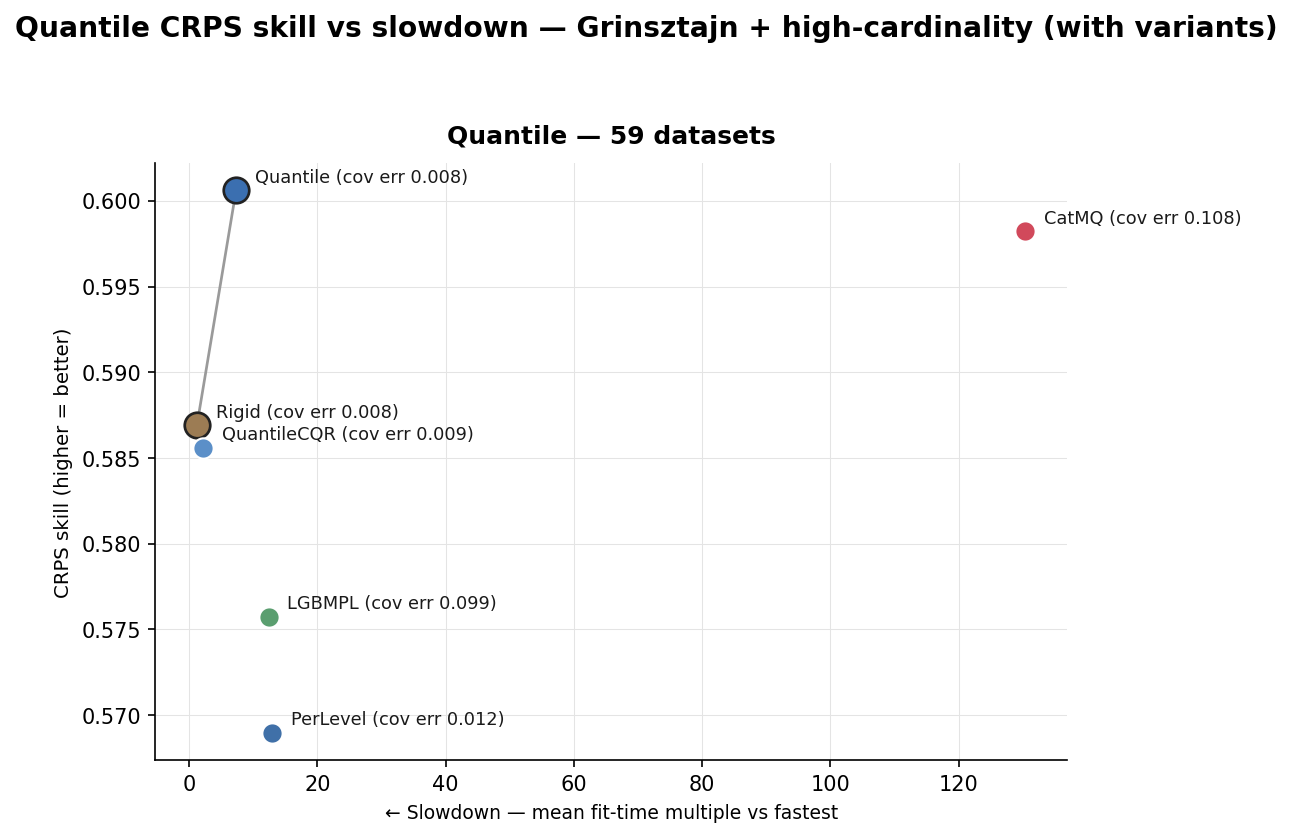
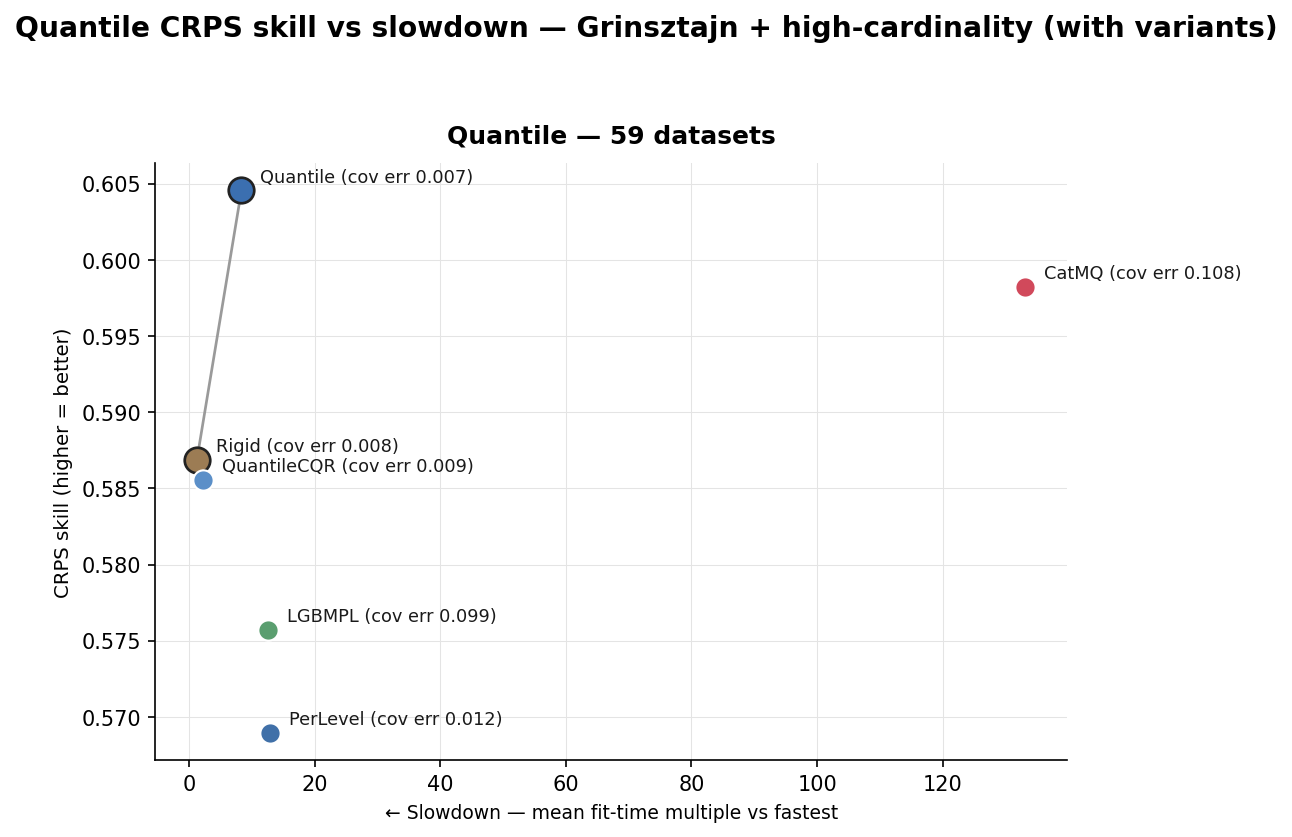
Quantile docs, chart and verdict for the five-candidate audition (I071)
The full field re-run on the new default
(results/quantile-20260925-172250.json) reproduces the I070 probe exactly:
the default equals the AuditionSN bench arm on 177/177 records and every
field arm is unchanged. docs/quantiles.md gets the five-candidate section,
a re-measured comparison table and a sentence on coverage under a time
shift; docs/parameters.md the audition row; docs/attribution.md credits
the split-conformal and normalized-score ideas behind the two new
candidates; CHANGELOG (Unreleased) states the change and its one caveat
(time-split coverage, Moneyball). images/quantile_pareto.png refreshed
from the run without NGBoost. CAMPAIGN_PLAN I071 verdict and
QUANTILE_PLAN Q8/Q9 recorded.

diff --git a/benchmarks/CAMPAIGN_PLAN.md b/benchmarks/CAMPAIGN_PLAN.md
@@ -174,6 +174,7 @@ fact: 2026-09-24 | the published chart on 0.33.0 (`results/20260924-090541.json`
 fact: 2026-09-24 | the internal chart on 0.33.0 (`results/20260924-130232.json`, decide tier, 3 seeds, the nine-arm field without the NoCatCount control): every per-seed metric equals `20260922-144219`'s bar one LightGBM Brier at the 17th digit, and the win rates are unchanged (default 70.7%). Skill: the default 0.4052 clf / 0.7341 reg at 4.9x / 6.3x, CatBoost 0.4057 / 0.7294 at 53.0x / 47.8x. Every arm's R² still moved by up to 0.0002, because the run's dataset metadata keeps the test-split scale of whichever seed finished first (H(14))
 fact: 2026-09-24 | RoNGBa as the quantile suite's NGBoost opponent (issue #163, I063, `results/quantile-20260924-164257.json`): it beats stock NGBoost 23W-13L on gr (median CRPS +0.94%, CI -0.07..+3.7) at 0.26x its fit, and the 500-round cap never binds (best round max 269); the head beats it 33W-3L (+6.30%) and loses on pol, visualizing_soil and SGEMM, the cap-bound low-noise sets (a parked capacity lead). 2 of 177 fits break down: one training target at z ~ -30 gets its own leaf in round 0's log-scale tree (value ~ -447, line-search multiplier 1), sigma grows ~5.8e7x for the test rows in that leaf, and the validation NLL moves ~0.01, so early stopping cannot see it. Mean CRPS skill -166.5; NGBoost is left off `images/quantile_pareto.png`
 fact: 2026-09-24 | standing quantile BASE = `results/quantile-20260924-164257.json` (the 0.33.0 head, the RoNGBa opponent; every other arm equals `quantile-20260924-005306.json` per key, 354/354)
+fact: 2026-09-25 | standing quantile BASE = `results/quantile-20260925-172250.json` (the I071 five-candidate default, 2 h 25 min; the head equals I070's AuditionSN on 177/177 records, every field arm equals `quantile-20260924-164257.json` on 6 x 177/177): gr head vs CatBoost MQ 29W-7L (+1.32%), vs RigidShift 35W-1L (+2.40%), vs LightGBM per-level 31W-5L, vs our per-level 34W-2L, vs NGBoost 33W-3L, vs head+CQR 35W-1L; 90% coverage 0.901 on gr; CRPS skill 0.6046 @ 8.3x over 59 keys (NGBoost off the chart), CatBoost MQ 0.5982 @ 133x off the frontier
 
 ## Beam
 
@@ -185,7 +186,7 @@ fact: 2026-09-24 | standing quantile BASE = `results/quantile-20260924-164257.js
 | F3 | Classifier forced-cross | KILLED 2026-09-21 (S3, I021) | gr binary engaged 10W-13L, median −0.04%: the race earns its fee on the classifier. Knob stays opt-in (PR #117), no rung-1 pin |
 | F5 | hc-Brier gap vs CatBoost | **SHIPPED 2026-09-22 (I046, PR #145, d14bf38): `cat_count_features` on by default** (public 5W-1L, decide hc 6W-1L, bit-identical elsewhere, chart refreshed) — earlier: I038 library form, I039 S3 PASS | the published chart (`public_pareto.png`) refresh: DONE 2026-09-24 on 0.33.0 (`results/20260924-090541.json`, `--public --seeds 3`, 22 datasets, ~4 h: the default avg rank 1.94 [1.64-2.24] against CatBoost 1.84 [1.43-2.24] and LightGBM 2.23, at a median 5.6x against 47.2x and 1.0x; `docs/benchmarks.md` prose updated; `pareto.png` re-rendered from `results/20260924-130232.json` and `docs/PROJECT_STATUS.md` synced); S7 (multiclass CTR width) is the family's next idea if picked. History: **A per-categorical count column closes 47% of CatBoost's hc edge** (I035): 4W-1L on the gap sets, +0.43% Brier median, gains ordered by cardinality, sf-police and Traffic unanimous across seeds. The gap is the encoder (CatBoost on our TS keeps none of its edge); not the prior target, Counter, permutations or quantization (TS quantization kills on big sets, +1.7–3.6% on the two small controls — a small-data pointer, parked). `cat_count_features` (opt-in, card ≥ 256, invisible to the cross and linear-leaf races; I038) on the decision tier (I039): gr 0-0-59 exact ties, the 7 hc sets without a qualifying column exact ties, the engaged 7 **6W-1L** at +0.20% median (sf-police +0.73%, Traffic +0.86% Brier; employee_salaries +2.45%, wine-reviews +0.56% RMSE), hc@time 4-0, fit ×1.09 on hc (engaged median 1.165). PR up with the flag OFF. The random-effects alternative (per-column ANOVA λ for the TS, I040) KILLED: uncapped it collapses the small controls (−3.8 / −9.6%), capped at 10 it is a flat wash and still costs kick and eucalyptus; the count column keeps evidence the shrinkage deletes. Next: the maintainer's go on /experiment S4 for the default flip; meanwhile R4 S0 |
 | F6 | Ordered-TS train/test moment mismatch (shortlist R1) | KILLED 2026-09-21 (S1b, I025) — closed as barrier B18 | The defect is real (rare categories over-trusted, reliability 0.63–0.70) and two transform-side fixes both went 7W-5L against a bar of 8: the gain is sf-police (9 of 9 fits, +0.29% to +0.53%) and nothing else. Nothing ships; the open door is the Counter feature, which belongs to R3 |
-| F7 | Multi-quantile head (`ChimeraBoostQuantileRegressor`) | PARKED 2026-09-24 (the maintainer: GitHub issues first; ACTIVE from 2026-09-23). Phase 1, the bench, MERGED (I056, PR #156); Q0 DONE (I057, PR #157 merged): uncapped and validation-rescaled pay, depth 6 misses on its guard alone, recentred fails. Q3 CLOSED (I058, barrier B23: a larger rate loses); depth 6 + early-stopping-row calibration PAID (31W-5L, +0.33%, 90% error 3.43 → 0.47); PR #158 merged. **Q5 PASSED (I059): the head's default is now depth 6 + `conformalize="auto"`** (gr 31W-5L, +0.33%, 90% coverage error 3.43 → 0.47); PR #159 merged, snapshot rebaselined. **Q2 CLOSED (I060)**: no probe clears the tightened gate (sign p < 0.05); the five low-noise sets need resolution (bins) on two and a squared-error location on two; PR #160 merged. **Q6 T0 PASSED (I061)**: the validation-chosen head wins 23W-7L-6T (p 0.005), recovers 99% of the oracle, and tops the 59-key frontier above CatBoost MQ (0.6006 @ 7.2× against 0.5982 @ 129×); PR #161 merged. **Q7 PASSED (I062): the audition is the head's default** (identity 177/177 with the bench arm; gr 23W-7L-6T against the Q5 default, p 0.005; CatBoost MQ now 9W-27L against us, off the frontier); PR #162 merged, **released in 0.33.0** | **I063 DONE (PR #167)**: RoNGBa is the NGBoost opponent (issue #163). **PARKED 2026-09-24** under the maintainer's focus rule (GitHub issues first): Q4 T0, spread-aware categorical encoding (a TS of the spread per category) on the hc regressions and `catscale`; then Q1 (P16); and the I063 capacity lead (pol, visualizing_soil, SGEMM). Program: `QUANTILE_PLAN.md` "Campaign 2026-09-23" |
+| F7 | Multi-quantile head (`ChimeraBoostQuantileRegressor`) | ACTIVE again 2026-09-25 (the maintainer: "we can continue on the quantile thread"; PARKED 2026-09-24 for GitHub issues; ACTIVE from 2026-09-23). Phase 1, the bench, MERGED (I056, PR #156); Q0 DONE (I057, PR #157 merged): uncapped and validation-rescaled pay, depth 6 misses on its guard alone, recentred fails. Q3 CLOSED (I058, barrier B23: a larger rate loses); depth 6 + early-stopping-row calibration PAID (31W-5L, +0.33%, 90% error 3.43 → 0.47); PR #158 merged. **Q5 PASSED (I059): the head's default is now depth 6 + `conformalize="auto"`** (gr 31W-5L, +0.33%, 90% coverage error 3.43 → 0.47); PR #159 merged, snapshot rebaselined. **Q2 CLOSED (I060)**: no probe clears the tightened gate (sign p < 0.05); the five low-noise sets need resolution (bins) on two and a squared-error location on two; PR #160 merged. **Q6 T0 PASSED (I061)**: the validation-chosen head wins 23W-7L-6T (p 0.005), recovers 99% of the oracle, and tops the 59-key frontier above CatBoost MQ (0.6006 @ 7.2× against 0.5982 @ 129×); PR #161 merged. **Q7 PASSED (I062): the audition is the head's default** (identity 177/177 with the bench arm; gr 23W-7L-6T against the Q5 default, p 0.005; CatBoost MQ now 9W-27L against us, off the frontier); PR #162 merged, **released in 0.33.0**. **Q8 T0 PASSED (I070)**: a fixed-width (S) and a scaled-residual (N) audition candidate, gr 18W-1L-17T against the Q7 default (p 7.6e-5) at 1.11x the fit; S alone and uncapped rounds fail. **Q9 PASSED (I071): S and N in the library default** (identity 177/177; CatBoost MQ 29W-7L, RigidShift 35W-1L; the 59-key chart 0.6046 @ 8.3x); PR for the maintainer; flag: hc `@time` 90% coverage error 2.12 -> 4.69 (Moneyball, a pointer) | **I063 DONE (PR #167)**: RoNGBa is the NGBoost opponent (issue #163). next: the rest of NGBoost's lead (visualizing_soil -34%, SGEMM -8%), a read-only diagnosis first (centre or width); then Q4 T0, spread-aware categorical encoding (a TS of the spread per category) on the hc regressions and `catscale`; then Q1 (P16). Program: `QUANTILE_PLAN.md` "Campaign 2026-09-23" |
 
 ### F1 — Cross-feature cost trim v2
 status: KILLED 2026-08-16 at S2 (I007 at k=6, I008 at k=12) — closed as barrier B16
@@ -476,7 +477,53 @@ for the new default without a re-run (gr 18W-1L against the Q7 default).
 docs (Claude): `docs/quantiles.md` (five candidates; the comparison
 table's rows re-read from I070 against the same field runs),
 `docs/parameters.md` (the `audition` row), CHANGELOG.
-verdict: PENDING(muse library task)
+muse (exit 0, then the keep-head follow-up, exit 0): S and N built on R's
+centre fit (`_fit_audition_centre` now returns `pv`), the spread model and
+its floor verbatim from the bench arm, `_store_audition_winner` keeps only
+the winner's fits; `model_` stays the head booster for every winner (the
+first cut set it to None for S and N, which would break any reader of
+`model_.trees_`). SHAP: S tiles the centre's SHAP (width exactly 0); N is
+centre SHAP + k_tau x spread SHAP, exact above the floor and approximate on
+floored rows (documented; the test checks unfloored rows and asserts the
+mask is non-empty). Tests: five-candidate fixtures (S and N each win
+reliably), `test_q9_..._bit_for_bit` on an S-win and an N-win split, probe
+count 17; 1225 passed, 1 skipped; ruff clean. Smoke (4 keys): the default
+and AuditionSN equal (pol N, visualizing_soil N, elevators S, sulfur R).
+Identity snapshot: 183/186, only `mq3_w_sub`'s three pins move (S or N
+wins that config): rebaseline after the merge. Commit 181dc5c.
+full-field run (`results/quantile-20260925-172250.json`, the new standing
+quantile BASE): the default equals I070's AuditionSN on 177/177 records,
+every metric; every field arm equals I063's run (6 x 177/177). Against the
+Q7 default, as I070: gr 18W-1L-17T, +2.18%, p 7.6e-5, guard ok (0.41 ->
+0.32 at 90%); hc 5W-0L-1T, guard ok (0.61 -> 0.35). Against the single
+head (Q5, `results/quantile-20260923-210350.json`, CRPS deterministic):
+gr 25W-5L-6T, +3.04% (losses all <= 0.13%; visualizing_soil +44.7%, pol
++39.5%, Brazilian_houses +34.3 / +32.1%, SGEMM +21.1%); fit 2.6x (in-run
+ratios 2.35 x 1.11; the cross-run ratio agrees, 2.57x). Field on gr
+(CRPS, IS90, fit x ours): per-level 34-2, 34-2, 1.27x; LightGBM 31-5,
+31-5, 0.83x; CatBoost MQ 29-7 (+1.32%), 28-8 (+3.89%), 6.22x; RigidShift
+35-1 (+2.40%; the loss, elevators, by 0.001%), 32-4, 0.13x; NGBoost 33-3,
+31-5, 1.20x (still loses visualizing_soil -34.3%, SGEMM -8.2%, pol -1.4%);
+CQR 35-1. Coverage on gr: 80.3% / 90.1% (median error 0.37 / 0.32 points).
+59-key chart (NGBoost off, as since I063): the head 0.6046 @ 8.3x (was
+0.6006 @ 7.3x) and RigidShift 0.5869 @ 1.2x are the frontier; CatBoost MQ
+0.5982 @ 133x. Picks (I070's arm, identical): N 80, B 40, H 38, S 13, R 6
+of 177; gr 46 / 27 / 27 / 5 / 3 of 108.
+forecast: (1) HIT, bit for bit on 177/177 fits; (2) HIT; (3) HIT, 183/186;
+(4) HIT, the re-run reproduces I070 exactly.
+unforecast: the hc `@time` guard FAILS (3 sets, a pointer, so no gate):
+median 90% coverage error 2.12 -> 4.69 points, 80% 1.75 -> 4.68. It was
+in I070's run too and went unreported there. The rise is one set,
+Moneyball@time: S wins 2 of 3 seeds and covers 84.4% at 90%, like
+RigidShift's 84.2% (a fixed width misses the shift); employee_salaries@time
+(83.0 -> 85.3%) and house_prices_nominal@time (89.3 -> 90.5%) improve, and
+CatBoost MQ covers 62-69% there. Stated in the CHANGELOG caveat and in
+`docs/quantiles.md` (one sentence on time shift).
+verdict: **PASS -> PR for the maintainer** (library, tests, docs, image).
+After the merge: rebaseline the identity snapshot, delete the branch.
+next (F7): the rest of NGBoost's lead (visualizing_soil -34%, SGEMM -8%):
+a read-only diagnosis first (centre or width: per-level pinball, NGBoost's
+mean on our grid), then Q4 T0, then Q1 (P16).
 
 #### I070 2026-09-25 F7 Q8 T0 (the head's low-noise losses: a fixed-width and a scaled-residual audition candidate, and the round cap; BENCH-only, pre-registered)
 why now: the maintainer, 2026-09-25: "yeah we can continue on the quantile
@@ -559,6 +606,8 @@ verdict: **AuditionSN PASSES the default gate.** Next rung (I071): build
 S and N into `ChimeraBoostQuantileRegressor`'s audition as the default,
 bit-identical to the bench arm (the Q7 pattern). S and uncapped are not
 pursued on their own.
+NOTE (I071): this run's hc `@time` pointer fails its coverage guard (90%
+error 2.12 -> 4.69 points); missed here, recorded in I071.
 
 #### I069 2026-09-25 issue #45 (loose ends: harness H(13) + H(14), a plan-file audit, repo hygiene; BENCH + markdown)
 why now: the focus rule's last issue; #113 is explored (I067 not

diff --git a/docs/quantiles.md b/docs/quantiles.md
@@ -86,9 +86,13 @@ The intervals are calibrated by default. After the fit, each level is rescaled a
 predicted median by a conformal factor (Romano, Patterson & Candès 2019), computed on the
 rows early stopping already held out: your `eval_set`, or the `validation_fraction` fold
 the model carves for itself. No extra rows are spent. Across the 36 datasets in
-`benchmarks/quantile_suite.py`, a nominal 80% interval covers 81% on average and a
+`benchmarks/quantile_suite.py`, a nominal 80% interval covers 80% on average and a
 nominal 90% one covers 90%. LightGBM per-level (72% and 83%) and CatBoost
 `MultiQuantile` (73% and 83%) both fall short.
+
+Calibration assumes new rows look like the held-out ones. When the test rows come
+later in time than the training rows, they may not: on three such datasets the
+default's 90% intervals covered 84%, 85% and 91%, and CatBoost's covered 62% to 69%.
 
 ```python
 model = ChimeraBoostQuantileRegressor().fit(X, y)
@@ -114,33 +118,43 @@ residual quantiles of the rows in that leaf, measured on those same rows, which 
 optimistic. The deeper trees of the default narrow it further, and the calibration
 repairs that.
 
-## Three candidates, one kept
+## Five candidates, one kept
 
-By default the fit builds three candidates and keeps the one with the best CRPS on the
+By default the fit builds five candidates and keeps the one with the best CRPS on the
 rows early stopping held out:
 
 - the head as configured;
 - the same head with 254 histogram bins, which resolves very fine-grained signal;
 - the head's shape moved onto the median of an ordinary squared-error
-  `ChimeraBoostRegressor`, which places the centre better on low-noise targets.
+  `ChimeraBoostRegressor`, which places the centre better on low-noise targets;
+- "fixed": that squared-error model's prediction plus, for each level, the matching
+  quantile of its errors on the held-out rows, so every row gets the same width;
+- "scaled": the same centre plus a second model's prediction of how large the first
+  one's error is at that row, times one factor per level, so the width follows the data.
 
 ```python
 model = ChimeraBoostQuantileRegressor().fit(X, y)
-model.audition_["selected"]     # "head", "bins" or "recentred"
+model.audition_["selected"]     # "head", "bins", "recentred", "fixed" or "scaled"
 model.audition_["crps"]         # each candidate's score on the held-out rows
 ```
 
 Each candidate is calibrated the same way before it is scored. Every prediction method
-serves the winner, and so does `shap_values`: for the recentred candidate the
-squared-error model's attributions are added to every level, so the attributions still
-add up to the prediction.
+serves the winner, and so does `shap_values`, whose attributions still add up to the
+prediction. For the recentred candidate the squared-error model's attributions are added
+to every level. For the fixed one every level gets that model's attributions, so
+`kind="width"` is exactly zero. For the scaled one each level gets the centre model's
+attributions plus the spread model's times that level's factor. That sum is exact
+except on rows where the predicted spread falls to its small positive floor.
 
-On the 36 Grinsztajn regression datasets the choice beats a single head on 23 and loses
-on 7 (on the other 6 it keeps the single head), with a median CRPS gain of 1.6% where the
-two differ. The gain is largest on low-noise targets: 7% to 30% on five of them. It
-costs about 2.35 times the fit time of a single head. The choice needs held-out rows, so
+On the 36 Grinsztajn regression datasets the choice beats a single head on 25 and loses
+on 5, none by more than 0.13% (on the other 6 it keeps the single head), with a median
+CRPS gain of 3.0% where the two differ. The gain is largest on low-noise targets: 21% to
+45% on five of them. The scaled candidate wins most often: 46 of the 108 fits, three
+per dataset. The
+choice costs about 2.6 times the fit time of a single head. It needs held-out rows, so
 with early stopping off and no `eval_set`, or with `conformalize` set to `True` or
-`False`, one head is fitted. `audition=False` fits one head, as earlier releases did.
+`False`, one head is fitted. `audition=False` fits one head, as releases before 0.33.0
+did.
 
 ## Scoring
 
@@ -264,32 +278,33 @@ early-stopping split and round budget, apart from NGBoost's own cap described be
 (`benchmarks/quantile_suite.py`). Win-loss is per
 dataset. "Interval score" is the Winkler score of the 90% interval, which charges width
 and miscoverage together. Fit time is each arm's median against ours (which includes the
-three-candidate choice), in the same run.
+five-candidate choice), in the same run.
 
 | against | CRPS | interval score | crossing | fit time |
 |:--|:--|:--|:--|:--|
-| 19 `loss="Quantile"` models | **34W-2L** | **33W-3L** | 0.00 vs 0.16 | 1.5x ours |
-| 19 LightGBM quantile boosters | **30W-6L** | **30W-6L** | 0.00 vs 0.22 | 0.9x ours |
-| CatBoost `MultiQuantile` | **27W-9L** | **26W-10L** | 0.00 vs 0.06 | 6.7x ours |
-| one squared-error model, fixed width | **29W-7L** | **28W-8L** | none on either side | 0.15x ours |
-| NGBoost with the RoNGBa settings | **33W-3L** | **30W-6L** | none on either side | 1.4x ours |
+| 19 `loss="Quantile"` models | **34W-2L** | **34W-2L** | 0.00 vs 0.16 | 1.3x ours |
+| 19 LightGBM quantile boosters | **31W-5L** | **31W-5L** | 0.00 vs 0.22 | 0.8x ours |
+| CatBoost `MultiQuantile` | **29W-7L** | **28W-8L** | 0.00 vs 0.06 | 6.2x ours |
+| one squared-error model, fixed width | **35W-1L** | **32W-4L** | none on either side | 0.13x ours |
+| NGBoost with the RoNGBa settings | **33W-3L** | **31W-5L** | none on either side | 1.2x ours |
 
-**CatBoost's shared head no longer leads on CRPS.** We win 27 of the 36 datasets, by a
-median of 0.29%, in about a seventh of its fit time. Its 90% intervals cover 83% on
-average against our 90%, so on the interval score, which prices coverage and width
-together, the lead is wider: 26 of 36, by a median of 2.3%.
+**CatBoost's shared head no longer leads on CRPS.** We win 29 of the 36 datasets, by a
+median of 1.3%, in about a sixth of its fit time. Its 90% intervals cover 83% on average
+against our 90%, so on the interval score, which prices coverage and width together, the
+lead is wider: 28 of 36, by a median of 3.9%.
 
 The fixed-width row is the simplest honest baseline: fit an ordinary squared-error model,
 take the quantiles of its validation residuals, and add the same offsets to every
-prediction, so every row gets the same interval. It fits in about a seventh of our time
-and its intervals are well calibrated. We beat it on 29 of 36 datasets on CRPS, by a
-median of 1.9%, and on 28 of 36 on the interval score, because our widths follow the
-data. If one width for every row suits your problem and fit time matters most, it is a
-reasonable choice.
+prediction, so every row gets the same interval. It fits in about an eighth of our time
+and its intervals are well calibrated. It is also the "fixed" candidate above, before
+calibration, so where one width suits the data the choice can keep it. We beat it on 35
+of 36 datasets on CRPS, by a median of 2.4% (the one loss is by 0.001%), and on 32 of 36
+on the interval score. If one width for every row suits your problem and fit time
+matters most, it is a reasonable choice.
 
 Against a stack of independent per-level models, ours or LightGBM's, the shared structure
-clearly pays in accuracy, and its levels never cross. Fit time is now similar: our own 19
-per-level models take 1.5 times as long, LightGBM's 19 boosters about 0.9 times.
+clearly pays in accuracy, and its levels never cross. Fit time is similar: our own 19
+per-level models take 1.3 times as long, LightGBM's 19 boosters about 0.8 times.
 
 The NGBoost row uses the settings from Ren, Sun and Wu (2019), called RoNGBa: trees of
 up to 31 leaves, a learning rate of 0.04 and at most 500 rounds, with the round count
@@ -321,8 +336,8 @@ calibration repairs the tails. Earlier releases used `depth=4` with no calibrati
 most extreme level on the grid, so a leaf estimating the 5% quantile keeps at least
 about 20 rows.
 
-When fit time matters more than the last 1.6%, `audition=False` fits a single head in
-less than half the time.
+When fit time matters more than the last 3%, `audition=False` fits a single head in
+about 40% of the time.
 
 `split_projection` chooses how the K gradient columns collapse into the single vector
 the tree grower accepts. Leave it alone unless you are exploring: `"rotate"` measured

diff --git a/docs/parameters.md b/docs/parameters.md
@@ -73,7 +73,7 @@ A whole grid of conditional quantiles from one booster. See the User Guide:
 | `quantiles` | `0.05` to `0.95` in steps of `0.05` | The levels to estimate: ascending, unique, strictly inside (0, 1). Column `k` of `predict` is level `k`. |
 | `conformalize` | `"auto"` | How the intervals are calibrated. `"auto"` rescales them after the fit on the rows early stopping held out (your `eval_set` or the `validation_fraction` fold), so no extra rows are spent; with no such rows, or too few to certify the levels, you get the raw grid. `True` calibrates on a separate fold held out before the early-stopping split, which gives a distribution-free coverage guarantee and raises if that fold is too small. `False` returns the raw grid, which runs narrow. |
 | `calibration_fraction` | `0.2` | Rows reserved for calibration. Ignored unless `conformalize=True`. |
-| `audition` | `True` | Fit three candidates and keep the one with the best CRPS on the rows early stopping held out: the head as configured, the same head with 254 histogram bins, and the head's shape moved onto the median of a squared-error `ChimeraBoostRegressor`. Every prediction method and `shap_values` serve the winner, recorded in `audition_`. About 2.35 times the fit time of one head. It needs early-stopping rows and `conformalize="auto"`; otherwise one head is fitted. `False` fits one head, as in earlier releases. |
+| `audition` | `True` | Fit five candidates and keep the one with the best CRPS on the rows early stopping held out: the head as configured, the same head with 254 histogram bins, the head's shape moved onto the median of a squared-error `ChimeraBoostRegressor`, that regressor's prediction plus one offset per level (`"fixed"`, the same width for every row), and the same centre plus a second regressor's predicted spread times one factor per level (`"scaled"`). Every prediction method and `shap_values` serve the winner, recorded in `audition_`. About 2.6 times the fit time of one head. It needs early-stopping rows and `conformalize="auto"`; otherwise one head is fitted. `False` fits one head, as releases before 0.33.0 did. |
 | `split_projection` | `"rotate"` | How the K gradient columns collapse for the split search. `"rotate"` measured best; `"sum"` is blind to changes in spread; `"gram"` measured no better than `"rotate"`. |
 | `exact_splits` | `False` | Score splits on the exact gain summed across levels instead of a projection, at the cost of K histogram channels per feature. Measured worse on real data (a worse CRPS on 27 of 36 Grinsztajn regression datasets), so it is a reference setting only. |
 

diff --git a/benchmarks/QUANTILE_PLAN.md b/benchmarks/QUANTILE_PLAN.md
@@ -382,6 +382,31 @@ Q0 reads moved it down to item 4.
    beats CatBoost MQ 27W-9L and tops the 59-key chart at 0.6006 @ 7.4×,
    with CatBoost off the frontier. The one flag: hc `@time` (3 sets), 90%
    coverage error 0.68 → 2.12 points.
+3c. **Q8 (added 2026-09-25, when the maintainer reopened the quantile
+   thread), the head's low-noise losses.** After Q7 the head still lost
+   pol, visualizing_soil and SGEMM to NGBoost and RigidShift. Three
+   bench-only probes: S, the fixed-width grid (RigidShift's) as a fourth
+   audition candidate; S+N, plus a scaled-residual candidate N (a second
+   default regressor predicts the centre's absolute error; per-level
+   factors from the standardized validation residuals); and the default at
+   8000 rounds.
+   **PASSED 2026-09-25 for S+N (I070, `results/quantile-20260925-141117.json`).**
+   Against the Q7 default: gr 18W-1L-17T, median +2.18%, sign p 7.6e-5,
+   90% coverage error 0.41 → 0.32; hc 5W-0L-1T; 1.11× the fit (pol +31%,
+   visualizing_soil +17%, the one loss sulfur −0.31%). Picks over 177
+   fits: N 80, B 40, H 38, S 13, R 6. S alone (8W-3L-25T, p 0.23) is
+   mostly subsumed by N; 8000 rounds (6W-3L-27T, p 0.51, 1.27×) fails.
+3d. **Q9, S and N in the library default.**
+   **PASSED 2026-09-25 (I071, `results/quantile-20260925-172250.json`), PR
+   for the maintainer.** The default equals the bench arm on 177 of 177
+   fits. Against the single head (Q5): gr 25W-5L-6T, +3.04%, at 2.6× its
+   fit. Against the field on gr: CatBoost MQ 29W-7L, RigidShift 35W-1L,
+   LightGBM per-level 31W-5L, our per-level 34W-2L, NGBoost 33W-3L; on the
+   59-key chart 0.6046 @ 8.3×, CatBoost MQ 0.5982 @ 133×. The flag: hc
+   `@time` 90% coverage error 2.12 → 4.69 points; the rise comes from
+   Moneyball, where S wins and a fixed width misses the shift (the other
+   two sets improve). Open: NGBoost still wins
+   visualizing_soil (−34%) and SGEMM (−8%).
 4. **Q1, the narrow-interval defect (P16).** Leaf values are in-sample
    residual quantiles, so intervals over-narrow (0.869 at nominal 0.90 on
    2026-08-30; coverage decays with rounds). Fit leaf quantiles

diff --git a/CHANGELOG.md b/CHANGELOG.md
@@ -5,6 +5,32 @@ The format follows [Keep a Changelog](https://keepachangelog.com/).
 
 ## [Unreleased]
 ### Changed
+- **The quantile head's audition gains two candidates, and its CRPS improves
+  most on low-noise targets.** `ChimeraBoostQuantileRegressor`'s default
+  choice now also tries `"fixed"`, an ordinary squared-error
+  `ChimeraBoostRegressor`'s prediction plus, per level, the quantile of its
+  errors on the held-out rows, and `"scaled"`, the same centre plus a second
+  regressor's predicted spread times one factor per level. Against 0.33.0's
+  three-candidate default it wins 18 of the 36 Grinsztajn regression
+  datasets, loses 1 and leaves 17 unchanged (median +2.2% CRPS where the two
+  differ; pol +31%, visualizing_soil +17%), and wins 5 of the 6
+  high-cardinality ones, leaving the sixth unchanged; its 90% coverage error
+  falls on both. It now beats CatBoost MultiQuantile on 29 of the 36 (was
+  27) and the fixed-width baseline on 35 (was 29). Over all 59 benchmark
+  datasets its CRPS skill is 0.605 against CatBoost's 0.598. The added cost
+  is the spread model, about 10% of the fit, so the default costs about 2.6
+  times a single head. `audition_["selected"]` gains `"fixed"` and
+  `"scaled"`, and every prediction method, `staged_predict` and
+  `shap_values` serve them; for `"scaled"` the attributions are exact except
+  on rows where the predicted spread sits at its floor. One caveat: on the
+  three time-split datasets the median 90% coverage error rises from 2.1 to
+  4.7 points (80%: 1.8 to 4.7). The rise comes from one dataset,
+  Moneyball, where the fixed-width candidate wins and, like the fixed-width
+  baseline, covers too little after the shift; the other two improve.
+  Ordinary regressors and classifiers are
+  untouched: the exact-output snapshot moves only one quantile
+  configuration (183 of 186 pins identical). Record:
+  `benchmarks/QUANTILE_PLAN.md`, Phase 2 (Q8, Q9).
 - **The quantile benchmark's NGBoost opponent now uses the RoNGBa
   settings** (Ren, Sun and Wu 2019; #163): trees of up to 31 leaves, a
   learning rate of 0.04 and at most 500 rounds, in place of NGBoost's stock

diff --git a/docs/attribution.md b/docs/attribution.md
@@ -28,6 +28,7 @@ the point of writing it down.
 | Quantile regression, and one fitted model serving every level at once | Koenker & Bassett, Econometrica 1978; quantile regression forests, Meinshausen, JMLR 2006; CatBoost's `MultiQuantile` |
 | The pieces our multi-quantile split search is built from: one shared split scored across every level, location/spread/skew contrasts in tau, and cycling through them or greedily picking the strongest each round | `grf`, Athey, Tibshirani & Wager, Annals of Statistics 2019; L-moments, Hosking, JRSS-B 1990; gamboostLSS, Mayr et al., JRSS-C 2012, and the non-cyclical variant of Thomas et al. 2018 |
 | Non-crossing quantiles by monotone rearrangement | Chernozhukov, Fernández-Val & Galichon, Econometrica 2010 |
+| The quantile head's "fixed" and "scaled" candidates: a point model plus the quantiles of its held-out errors, and the same errors measured in units of a second model's predicted spread | Split conformal prediction, Papadopoulos et al., ECML 2002, and Lei et al., JASA 2018; normalized nonconformity scores, Papadopoulos, Gammerman & Vovk 2008, the locally weighted form in Lei et al. 2018 |
 | Split-conformal calibration, and its quantile form (`conformalize`) | Vovk, Gammerman & Shafer 2005; Lei et al., JASA 2018; conformalized quantile regression, Romano, Patterson & Candès, NeurIPS 2019 |
 | Temperature scaling of classifier probabilities | Guo, Pleiss, Sun & Weinberger, ICML 2017; Platt 1999 |
 | Bagging, out-of-bag estimation, and column subsampling (`colsample`) | Breiman 1996 and 2001; subagging, Bühlmann & Yu, Annals of Statistics 2002; random subspaces, Ho, IEEE TPAMI 1998 — the sources the XGBoost paper itself names for `colsample` |
